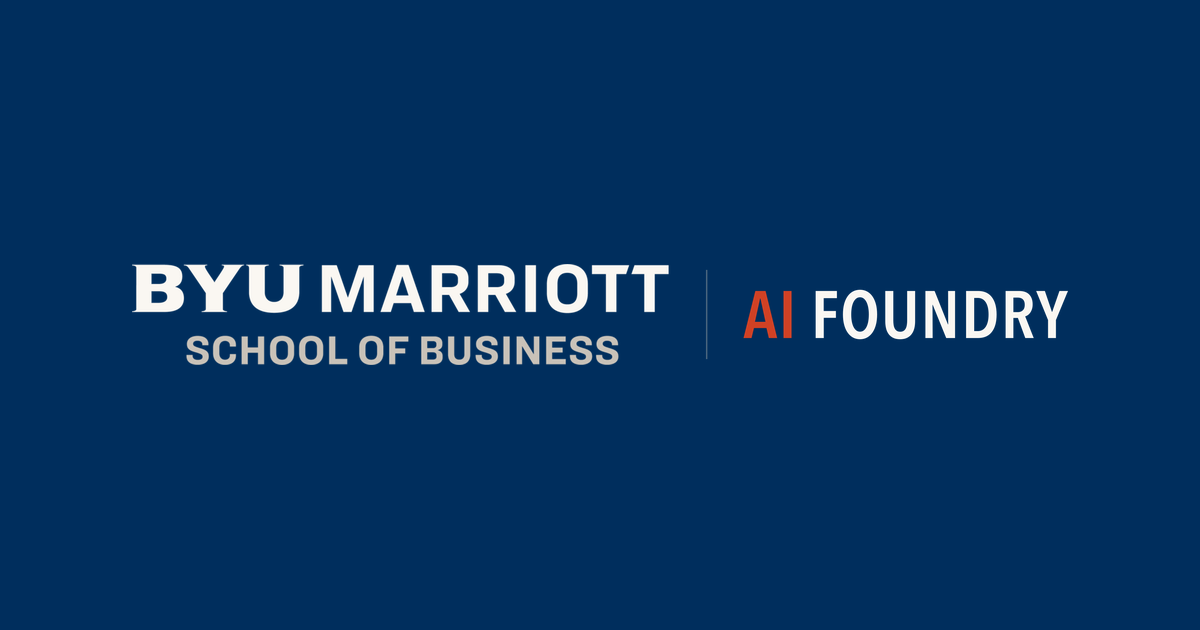
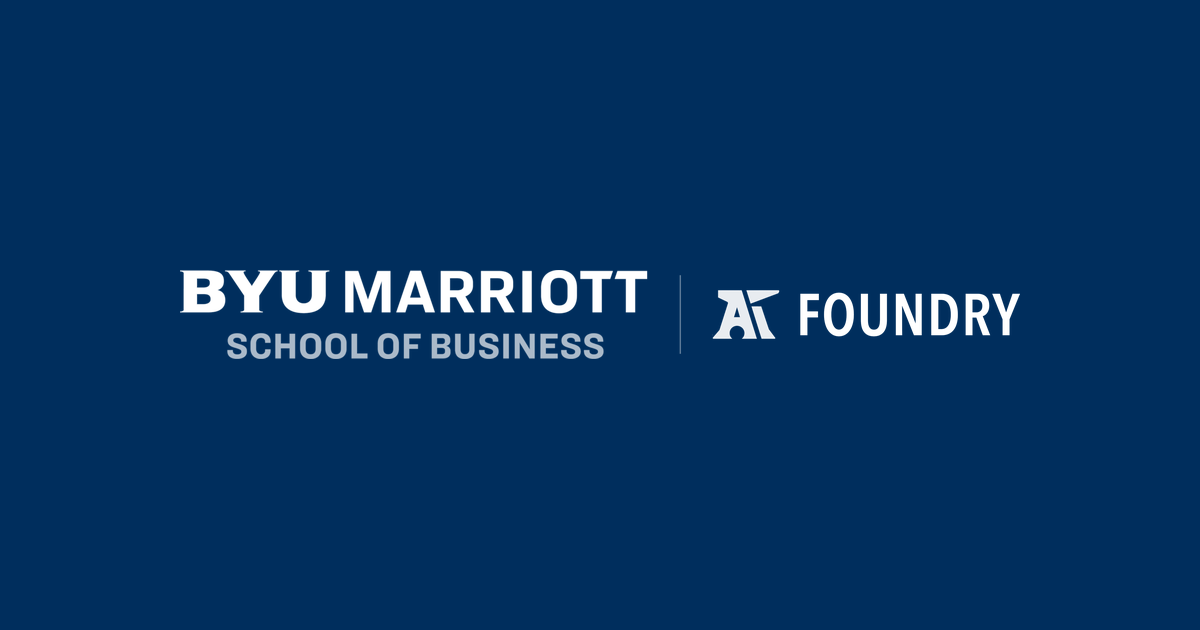
feat: roll out the new AI glyph across every surface
The glyph now appears everywhere the old anvil and the lettered lockup did:

  header and footer   the wordmark with the glyph standing in for "AI"
  landing hero        the glyph on its own
  network hero        the glyph on its own, previously still the old anvil
  favicons and .ico   regenerated from the glyph
  icon.svg            regenerated, reusing the glyph's traced path
  og-image.png        rebuilt on the new wordmark

Three things were measured rather than eyeballed.

The wordmark was trimmed to content before installing. Untrimmed it carries
900px of canvas padding and would have rendered at a third of the size at the
same CSS height. Trimmed it is 3407x360, aspect 9.46 against the old 9.18, so
the header does not reflow.

Both heroes went from h-16 md:h-20 to h-20 md:h-24. The glyph is 1.37:1 where
the anvil was 1.60:1, so at identical height it rendered 109px wide instead of
128px and read lighter. The extra height restores the optical weight.

MARK_WIDTH in build-icons.py dropped 0.68 to 0.62 for the same reason: the
taller mark stands higher in a square tile, and 0.62 keeps the optical area and
the corner breathing room the anvil had.

og-image is now generated by a script rather than being a hand-made file, and it
keeps the wordmark inside 70 percent of the width because Slack, LinkedIn and
iMessage all crop the edges differently.

The old assets are kept, not deleted, so any of this reverts by changing a src.
[…]

Changed region(s): [[0.0925, 0.4222, 0.555, 0.6032], [0.5858, 0.4524, 0.8942, 0.5429]]

diff --git a/src/app/page.tsx b/src/app/page.tsx
@@ -1,7 +1,7 @@
 import Image from "next/image"
-import Link from "next/link"
 import { SiteHeader } from "@/components/SiteHeader"
 import { SiteFooter } from "@/components/SiteFooter"
+import { MotionCta } from "@/components/MotionCta"
 import {
   BUILD_HEADING,
   BUILDERS_DETAIL,
@@ -56,22 +56,26 @@ function Hero() {
       <div aria-hidden className="pointer-events-none absolute inset-0 -z-10" />
 
       <div className="mx-auto flex max-w-6xl flex-col items-center px-6 py-28 text-center md:py-40">
-        {/* The anvil, above the headline and on the same centre axis. It is
+        {/* The AI glyph, above the headline and on the same centre axis. It is
             decorative here: the header already carries the identifying lockup,
-            so this one is aria-hidden rather than announced twice. */}
+            so this one is aria-hidden rather than announced twice.
+
+            h-20 md:h-24, up from h-16 md:h-20. This mark is 1.37:1 where the
+            old anvil was 1.60:1, so at the same height it reads narrower and
+            lighter. The extra height restores the optical weight the hero had. */}
         {/* The SVG, not the PNG, so it stays crisp at any size and on any
             display. unoptimized because Next's image optimizer refuses SVG
             unless dangerouslyAllowSVG is set, and turning that on globally to
             serve one first-party file is a bad trade. */}
         <Image
-          src="/brand/anvil-white.svg"
+          src="/brand/glyph-white.svg"
           alt=""
           aria-hidden
-          width={290}
-          height={181}
+          width={535}
+          height={391}
           priority
           unoptimized
-          className="h-16 w-auto md:h-20"
+          className="h-20 w-auto md:h-24"
         />
 
         {/*
@@ -106,20 +110,21 @@ function Hero() {
             the hero from collapsing upward. */}
         <div className="mt-12 flex flex-col gap-4 sm:flex-row sm:items-center sm:justify-center">
           {/*
-            A plain anchor, not a Link, and that is deliberate. This scrolls
-            down the same page to the Get a quote section. globals.css sets
-            scroll-behavior smooth, so the browser animates it with no
-            JavaScript at all.
+            A same-page anchor, not a route link, and that is deliberate. This
+            scrolls down to the Get a quote section, and globals.css sets
+            scroll-behavior smooth so the browser animates it. MotionCta keeps it
+            an <a> for exactly that reason: next/link would intercept the click
+            and route instead of scrolling.
           */}
-          <a href="#quote" className="btn-ember px-8 py-4 text-base">
+          <MotionCta href="#quote" className="btn-ember px-8 py-4 text-base">
             Submit a project
-          </a>
-          <Link
+          </MotionCta>
+          <MotionCta
             href="/network"
             className="inline-flex items-center justify-center border border-border-on-inverse px-8 py-4 text-base font-semibold text-text-on-inverse transition-colors hover:border-border-accent"
           >
             Join the network
-          </Link>
+          </MotionCta>
         </div>
       </div>
     </section>
@@ -391,9 +396,9 @@ function GetAQuote() {
         {/* The one way through to the form, and the same button treatment as
             the top bar so the call to action reads as one thing site-wide. */}
         <div className="mt-16">
-          <Link href={QUOTE_CTA.href} className="btn-ember px-9 py-4 text-base">
+          <MotionCta href={QUOTE_CTA.href} className="btn-ember px-9 py-4 text-base">
             {QUOTE_CTA.label}
-          </Link>
+          </MotionCta>
           <p className="mt-5 text-base text-text-on-inverse-muted">
             {QUOTE_CTA_NOTE}
           </p>

diff --git a/src/components/SiteHeader.tsx b/src/components/SiteHeader.tsx
@@ -1,13 +1,18 @@
 import Image from "next/image"
 import Link from "next/link"
+import { MotionCta } from "@/components/MotionCta"
 import { NAV, NAV_CTA, PROGRAM, SCHOOL_FULL } from "@/lib/content"
 
 /**
  * Top bar. Navy, so it reads as one surface with the hero below it. Two tabs,
  * Join the network and About us. Click either and it takes you straight there.
  *
- * Deliberately a server component. The mobile menu is a native <details>, so
- * the header ships zero JavaScript.
+ * Still a server component. The mobile menu is a native <details>, so the
+ * disclosure needs no script.
+ *
+ * The Get a quote button is the exception: it is a MotionCta, which is a client
+ * component, so that one leaf hydrates. It used to be true that this header
+ * shipped no JavaScript of its own and that is no longer the case.
  *
  * The mark is the real co-brand lockup produced for the program, in its white
  * reversal. BYU's rule is that marks appear in navy or white only, so a
@@ -21,9 +26,9 @@ export function SiteHeader() {
       <div className="mx-auto flex h-20 max-w-6xl items-center justify-between px-6">
         <Link href="/" className="flex items-center">
           <Image
-            src="/brand/lockup-white.png"
+            src="/brand/wordmark-glyph-white.png"
             alt={`${SCHOOL_FULL}, ${PROGRAM}`}
-            width={3305}
+            width={3407}
             height={360}
             priority
             className="h-6 w-auto md:h-9"
@@ -44,9 +49,12 @@ export function SiteHeader() {
               </li>
             ))}
             <li className="ml-3">
-              <Link href={NAV_CTA.href} className="btn-ember px-6 py-2.5 text-base">
+              <MotionCta
+                href={NAV_CTA.href}
+                className="btn-ember px-6 py-2.5 text-base"
+              >
                 {NAV_CTA.label}
-              </Link>
+              </MotionCta>
             </li>
           </ul>
         </nav>
@@ -72,12 +80,12 @@ export function SiteHeader() {
                 </li>
               ))}
               <li className="px-4 pb-2 pt-3">
-                <Link
+                <MotionCta
                   href={NAV_CTA.href}
                   className="btn-ember w-full px-4 py-2.5 text-base"
                 >
                   {NAV_CTA.label}
-                </Link>
+                </MotionCta>
               </li>
             </ul>
           </nav>

diff --git a/src/app/network/page.tsx b/src/app/network/page.tsx
@@ -77,14 +77,14 @@ export default function NetworkPage() {
                 dangerouslyAllowSVG is set globally, and turning that on to serve
                 one first-party file is a bad trade. */}
             <Image
-              src="/brand/anvil-white.svg"
+              src="/brand/glyph-white.svg"
               alt=""
               aria-hidden
-              width={290}
-              height={181}
+              width={535}
+              height={391}
               priority
               unoptimized
-              className="h-16 w-auto md:h-20"
+              className="h-20 w-auto md:h-24"
             />
 
             {/*

diff --git a/src/components/SiteFooter.tsx b/src/components/SiteFooter.tsx
@@ -15,9 +15,9 @@ export function SiteFooter() {
         <div className="flex flex-col gap-10 md:flex-row md:justify-between">
           <div className="max-w-sm">
             <Image
-              src="/brand/lockup-white.png"
+              src="/brand/wordmark-glyph-white.png"
               alt={`${SCHOOL_FULL}, ${PROGRAM}`}
-              width={3305}
+              width={3407}
               height={360}
               className="h-8 w-auto"
             />

diff --git a/scripts/build-icons.py b/scripts/build-icons.py
@@ -1,6 +1,6 @@
 #!/usr/bin/env python3
 """
-Builds the favicons and app icons from the anvil mark.
+Builds the favicons and app icons from the AI glyph.
 
     pip3 install --user Pillow
     python3 scripts/build-icons.py
@@ -10,7 +10,7 @@ with that one: orange on navy measures 2.90:1, which fails the contrast contract
 this repo enforces everywhere else, and a bare "AI" is a standalone mark with no
 BYU identification, which the naming rules do not allow.
 
-The anvil is the right mark for a square: it is the program's own symbol, it
+The glyph is the right mark for a square: it is the program's own symbol, it
 reads at 16px, and white on navy is 13.56:1.
 
 Out:
@@ -37,15 +37,17 @@ APP = os.path.join(HERE, "..", "src", "app")
 NAVY = (0, 46, 93, 255)
 WHITE = (255, 255, 255, 255)
 
-# How much of the tile the mark spans. The anvil is a wide mark, roughly 1.6:1,
-# so sizing it by width is what keeps it from looking lost in a square.
-MARK_WIDTH = 0.68
+# How much of the tile the mark spans, sized by WIDTH because the mark is wider
+# than tall. The AI glyph is about 1.37:1 where the old anvil was 1.60:1, so at
+# the same width fraction it stands taller in the tile. 0.62 keeps the optical
+# area about what the anvil had and preserves the corner breathing room.
+MARK_WIDTH = 0.62
 CORNER = 0.18  # corner radius as a fraction of the tile
 SS = 4  # supersample factor
 
 
 def tile(size: int, rounded: bool, mark: Image.Image) -> Image.Image:
-    """One icon: navy tile, white anvil centred on it."""
+    """One icon: navy tile, white glyph centred on it."""
     s = size * SS
     img = Image.new("RGBA", (s, s), (0, 0, 0, 0))
     draw = ImageDraw.Draw(img)
@@ -86,9 +88,11 @@ def svg_icon(anvil_svg: str) -> str:
 
 
 def main() -> int:
-    anvil = Image.open(os.path.join(PUBLIC, "brand", "anvil-white.png")).convert("RGBA")
+    mark_png = os.path.join(PUBLIC, "brand", "glyph-white.png")
+    anvil = Image.open(mark_png).convert("RGBA")
+    anvil = anvil.crop(anvil.getbbox())
 
-    with open(os.path.join(PUBLIC, "brand", "anvil-white.svg")) as fh:
+    with open(os.path.join(PUBLIC, "brand", "glyph-white.svg")) as fh:
         with open(os.path.join(PUBLIC, "icon.svg"), "w") as out:
             out.write(svg_icon(fh.read()))
     print("  icon.svg")

diff --git a/scripts/build-og-image.py b/scripts/build-og-image.py
@@ -1,0 +1,39 @@
+#!/usr/bin/env python3
+"""
+Builds public/og-image.png, the 1200x630 card shown when the site is shared.
+
+    python3 scripts/build-og-image.py
+
+Navy field, the white-reversed wordmark centred on it. Uses the same asset the
+header uses, so a shared link and the site itself carry the same mark. The old
+one predated the glyph and still showed the lettered "AI".
+
+1200x630 is the size Open Graph consumers crop to. Keep the wordmark inside
+about 70 percent of the width: Slack, LinkedIn and iMessage all crop the edges
+differently and a mark that touches the sides loses its ends in at least one of
+them.
+"""
+import os
+from PIL import Image
+
+HERE = os.path.dirname(__file__)
+PUBLIC = os.path.join(HERE, "..", "public")
+NAVY = (0, 46, 93, 255)
+W, H = 1200, 630
+SAFE = 0.70
+
+def main() -> int:
+    mark = Image.open(os.path.join(PUBLIC, "brand", "wordmark-glyph-white.png")).convert("RGBA")
+    mark = mark.crop(mark.getbbox())
+    target_w = int(W * SAFE)
+    mark = mark.resize((target_w, round(mark.height * target_w / mark.width)), Image.LANCZOS)
+    card = Image.new("RGBA", (W, H), NAVY)
+    card.alpha_composite(mark, ((W - mark.width) // 2, (H - mark.height) // 2))
+    out = os.path.join(PUBLIC, "og-image.png")
+    card.convert("RGB").save(out, optimize=True)
+    print(f"  og-image.png  {W}x{H}  wordmark {mark.width}x{mark.height}  "
+          f"{os.path.getsize(out)/1024:.0f} KB")
+    return 0
+
+if __name__ == "__main__":
+    raise SystemExit(main())
